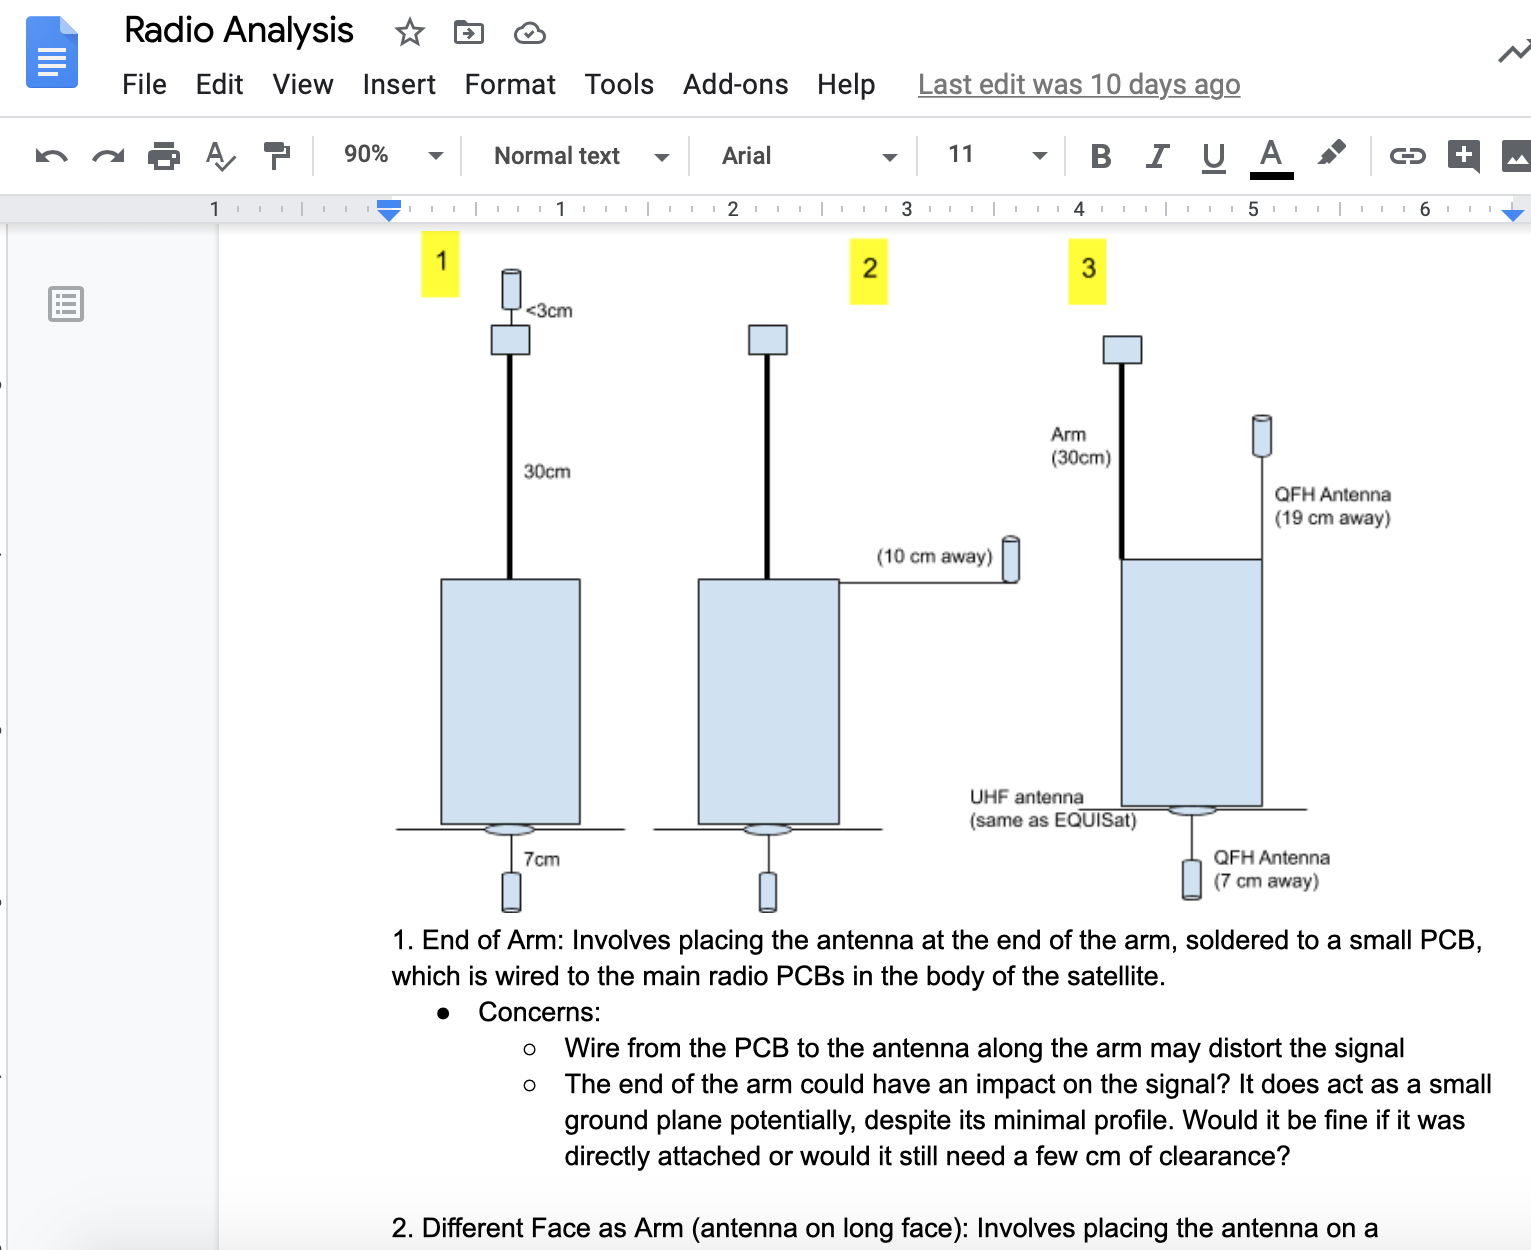
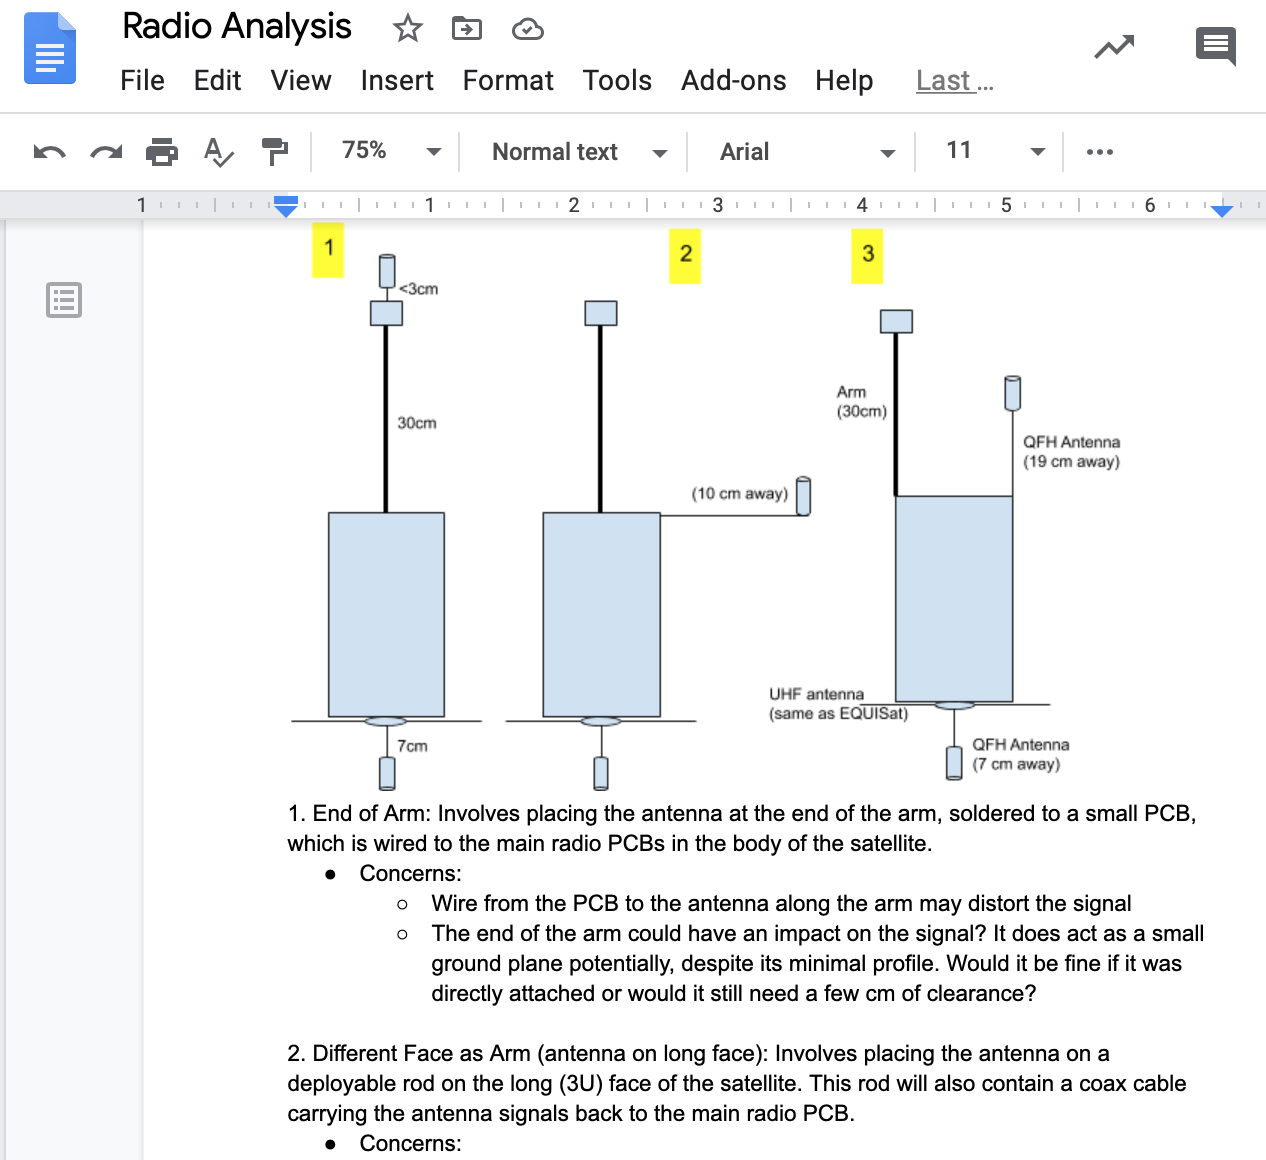
resize pic again

diff --git a/index.md b/index.md
@@ -49,8 +49,8 @@ I'm the Avionics Hardware leader of Brown Space Engineering. I...
 
 Design Samples: <br>
 <img src="images/BSEBlockDiagram.jpg?raw=true" style="width:480px;">
-<img src="images/PVDXPowerBudget.png?raw=true" style="width:200px;">
-<img src="images/PVDXRadioAnalysis.png?raw=true" style="width:390px;">
+<img src="images/PVDXPowerBudget.png?raw=true" style="width:230px;">
+<img src="images/PVDXRadioAnalysis.png?raw=true" style="width:250px;">
 
 <a href="https://github.com/BrownSpaceEngineering">GitHub Organization Link</a>
 
